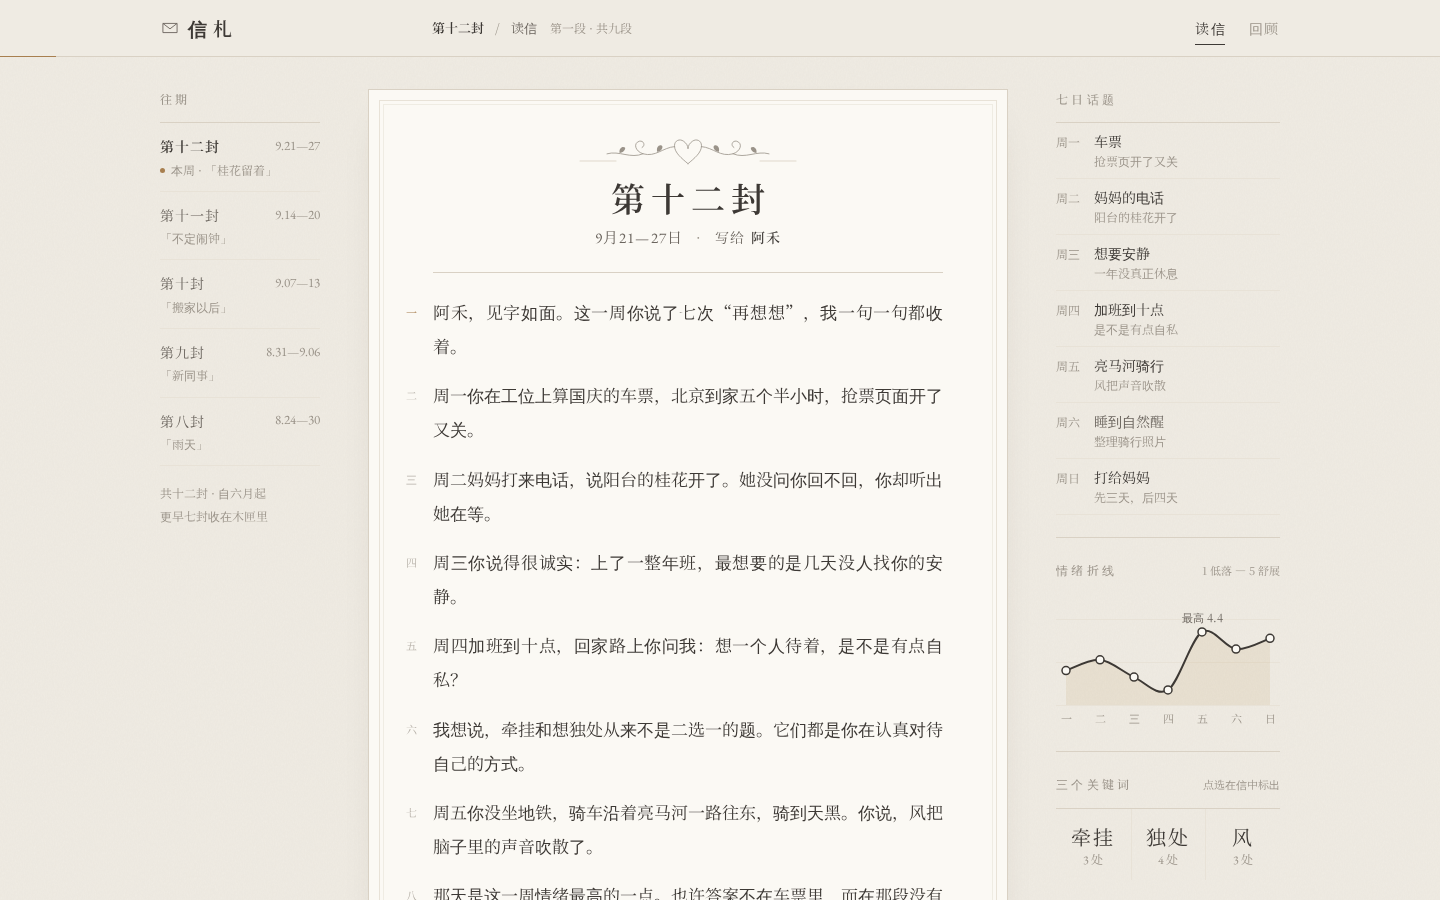
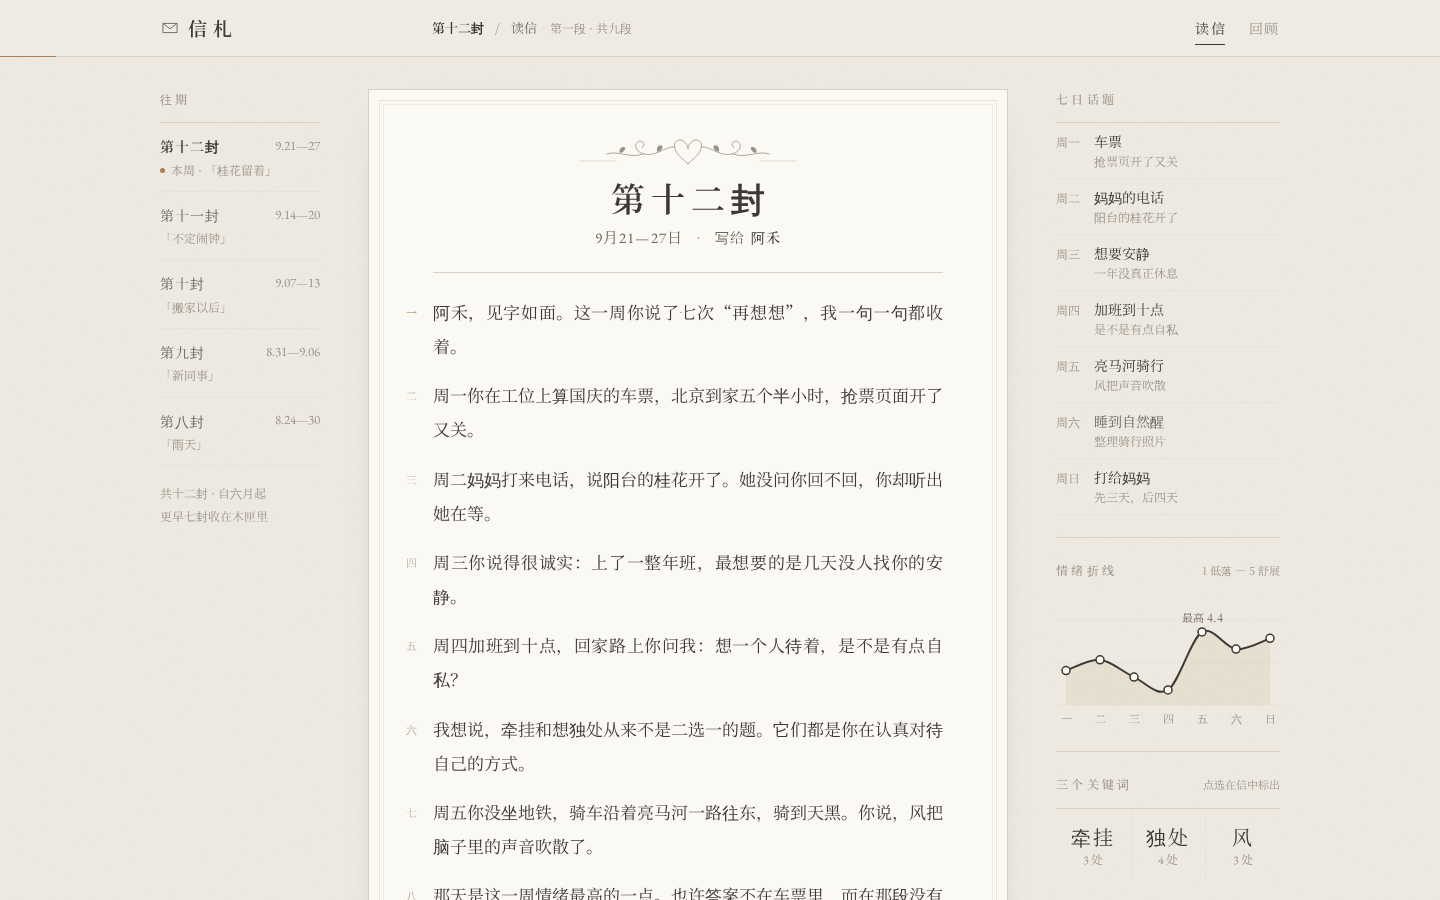
修正关键词标记：按段内原文短语标出
原先只匹配关键词本身，像「没人找你的安静」这类同义句段落虽被计入，
却没有任何标记，导致「4 处」只亮 1 处。数据改为 关键词 → 短语，
跨行标记用 box-decoration-break 衔接；未选纸色时跟随系统深浅色。

Claude-Session: https://claude.ai/code/session_01LUpHpqM3dmAVYrivGasYjP

diff --git a/js/data.js b/js/data.js
@@ -1,4 +1,5 @@
-// 信札 · 虚构示例数据。每封信对应一周的对话；段落可关联星期（day 0–6 = 周一—周日）与关键词。
+// 信札 · 虚构示例数据。每封信对应一周的对话；段落可关联星期（day 0–6 = 周一—周日）
+// 与关键词（kw：关键词 → 该段里用记号笔标出的原文短语）。
 window.LETTERS = [
   {
     no: 12,
@@ -10,16 +11,16 @@ window.LETTERS = [
     paragraphs: [
       { t: "阿禾，见字如面。这一周你说了七次“再想想”，我一句一句都收着。" },
       { t: "周一你在工位上算国庆的车票，北京到家五个半小时，抢票页面开了又关。", day: 0 },
-      { t: "周二妈妈打来电话，说阳台的桂花开了。她没问你回不回，你却听出她在等。", day: 1, kw: ["牵挂"] },
-      { t: "周三你说得很诚实：上了一整年班，最想要的是几天没人找你的安静。", day: 2, kw: ["独处"] },
-      { t: "周四加班到十点，回家路上你问我：想一个人待着，是不是有点自私？", day: 3, kw: ["独处"] },
-      { t: "我想说，牵挂和想独处从来不是二选一的题。它们都是你在认真对待自己的方式。", kw: ["牵挂", "独处"] },
-      { t: "周五你没坐地铁，骑车沿着亮马河一路往东，骑到天黑。你说，风把脑子里的声音吹散了。", day: 4, kw: ["风"] },
-      { t: "那天是这一周情绪最高的一点。也许答案不在车票里，而在那段没有目的地的路上。", day: 4, kw: ["风"] },
-      { t: "周日你做了决定：先陪自己三天，再回家陪妈妈四天。她在电话那头说：“那我把桂花留着。”", day: 6, kw: ["牵挂", "独处"] }
+      { t: "周二妈妈打来电话，说阳台的桂花开了。她没问你回不回，你却听出她在等。", day: 1, kw: { 牵挂: "你却听出她在等" } },
+      { t: "周三你说得很诚实：上了一整年班，最想要的是几天没人找你的安静。", day: 2, kw: { 独处: "几天没人找你的安静" } },
+      { t: "周四加班到十点，回家路上你问我：想一个人待着，是不是有点自私？", day: 3, kw: { 独处: "想一个人待着" } },
+      { t: "我想说，牵挂和想独处从来不是二选一的题。它们都是你在认真对待自己的方式。", kw: { 牵挂: "牵挂", 独处: "想独处" } },
+      { t: "周五你没坐地铁，骑车沿着亮马河一路往东，骑到天黑。你说，风把脑子里的声音吹散了。", day: 4, kw: { 风: "风把脑子里的声音吹散了" } },
+      { t: "那天是这一周情绪最高的一点。也许答案不在车票里，而在那段没有目的地的路上。", day: 4, kw: { 风: "那段没有目的地的路上" } },
+      { t: "周日你做了决定：先陪自己三天，再回家陪妈妈四天。她在电话那头说：“那我把桂花留着。”", day: 6, kw: { 独处: "先陪自己三天", 牵挂: "再回家陪妈妈四天" } }
     ],
     wish: { from: 11, text: "好好睡一个不定闹钟的觉" },
-    closing: { t: "国庆第一天，就从这个心愿开始吧——醒来的时候，先别看手机，听一听窗外的风。", kw: ["风"] },
+    closing: { t: "国庆第一天，就从这个心愿开始吧——醒来的时候，先别看手机，听一听窗外的风。", kw: { 风: "听一听窗外的风" } },
     question: "骑车那晚，被风吹散的声音里，最响的是哪一句？",
     topics: [
       ["车票", "抢票页开了又关"],
@@ -41,10 +42,10 @@ window.LETTERS = [
     to: "阿禾",
     sent: "九月二十一日",
     paragraphs: [
-      { t: "阿禾，见字如面。这周你说得最多的两个字是“好累”。", kw: ["疲惫"] },
-      { t: "周二凌晨两点你还醒着，刷完了一整季没在看的剧。", day: 1, kw: ["失眠"] },
-      { t: "周四你说，想要的不多，只想好好睡一个不定闹钟的觉。", day: 3, kw: ["心愿"] },
-      { t: "我把这个心愿记下了。下一封信，我们一起看看它有没有实现。", kw: ["心愿"] }
+      { t: "阿禾，见字如面。这周你说得最多的两个字是“好累”。", kw: { 疲惫: "好累" } },
+      { t: "周二凌晨两点你还醒着，刷完了一整季没在看的剧。", day: 1, kw: { 失眠: "凌晨两点你还醒着" } },
+      { t: "周四你说，想要的不多，只想好好睡一个不定闹钟的觉。", day: 3, kw: { 心愿: "好好睡一个不定闹钟的觉" } },
+      { t: "我把这个心愿记下了。下一封信，我们一起看看它有没有实现。", kw: { 心愿: "这个心愿" } }
     ],
     wish: { from: 10, text: "给新家的绿萝换一个大一点的盆" },
     closing: { t: "你周六真的去了花市，绿萝现在住进了白色的陶盆里。" },
@@ -69,9 +70,9 @@ window.LETTERS = [
     to: "阿禾",
     sent: "九月十四日",
     paragraphs: [
-      { t: "阿禾，见字如面。新家的第一周，你说房间大了，声音却变少了。", kw: ["新家"] },
-      { t: "周三你在门口捡到邻居掉落的快递，送过去时，对方回了你一碟月饼。", day: 2, kw: ["邻居"] },
-      { t: "周六你把绿萝放在窗台上，说它是这个家里第一个会长大的东西。", day: 5, kw: ["绿萝"] }
+      { t: "阿禾，见字如面。新家的第一周，你说房间大了，声音却变少了。", kw: { 新家: "新家" } },
+      { t: "周三你在门口捡到邻居掉落的快递，送过去时，对方回了你一碟月饼。", day: 2, kw: { 邻居: "邻居" } },
+      { t: "周六你把绿萝放在窗台上，说它是这个家里第一个会长大的东西。", day: 5, kw: { 绿萝: "绿萝" } }
     ],
     wish: { from: 9, text: "找到一家能一个人安心吃午饭的店" },
     closing: { t: "公司后街那家面馆，你已经去了三次，老板记住了你不要香菜。" },
@@ -96,9 +97,9 @@ window.LETTERS = [
     to: "阿禾",
     sent: "九月七日",
     paragraphs: [
-      { t: "阿禾，见字如面。组里来了新同事，你说自己像在重新学说话。", kw: ["试探"] },
-      { t: "周二她约你吃午饭，你犹豫了很久，最后说了“下次吧”。", day: 1, kw: ["午饭", "边界"] },
-      { t: "周五你主动约了她。你说，拒绝和靠近，原来都可以是自己选的。", day: 4, kw: ["午饭", "边界"] }
+      { t: "阿禾，见字如面。组里来了新同事，你说自己像在重新学说话。", kw: { 试探: "像在重新学说话" } },
+      { t: "周二她约你吃午饭，你犹豫了很久，最后说了“下次吧”。", day: 1, kw: { 午饭: "约你吃午饭", 边界: "下次吧" } },
+      { t: "周五你主动约了她。你说，拒绝和靠近，原来都可以是自己选的。", day: 4, kw: { 午饭: "主动约了她", 边界: "拒绝和靠近" } }
     ],
     wish: { from: 8, text: "下雨天也能出门走一走" },
     closing: { t: "周日下了小雨，你撑伞绕着小区走了两圈，说空气是甜的。" },
@@ -123,9 +124,9 @@ window.LETTERS = [
     to: "阿禾",
     sent: "八月三十一日",
     paragraphs: [
-      { t: "阿禾，见字如面。北京这周下了五天雨，你说心情也跟着潮了。", kw: ["雨"] },
-      { t: "周四你翻到和旧友的合照，犹豫要不要发一句“最近好吗”。", day: 3, kw: ["旧友"] },
-      { t: "你最后没有发，但你说，想念本身也算一种联系。我们慢慢来。", kw: ["旧友", "慢"] }
+      { t: "阿禾，见字如面。北京这周下了五天雨，你说心情也跟着潮了。", kw: { 雨: "下了五天雨" } },
+      { t: "周四你翻到和旧友的合照，犹豫要不要发一句“最近好吗”。", day: 3, kw: { 旧友: "和旧友的合照" } },
+      { t: "你最后没有发，但你说，想念本身也算一种联系。我们慢慢来。", kw: { 旧友: "想念本身也算一种联系", 慢: "我们慢慢来" } }
     ],
     wish: { from: 7, text: "每天给自己留十分钟发呆" },
     closing: { t: "这周你有四天做到了，其中一次是在雨声里。" },

diff --git a/js/app.js b/js/app.js
@@ -25,7 +25,9 @@
   var state = { letter: null, keyword: null, day: null, section: "letter" };
 
   /* ———————————— 设置（页脚） ———————————— */
-  var settings = Object.assign({ size: "m", paper: "cream", leading: "loose" }, store.get("settings", {}));
+  // 没选过纸色时跟随系统深浅色
+  var prefersDark = window.matchMedia && window.matchMedia("(prefers-color-scheme: dark)").matches;
+  var settings = Object.assign({ size: "m", paper: prefersDark ? "night" : "cream", leading: "loose" }, store.get("settings", {}));
   function applySettings() {
     root.dataset.size = settings.size;
     root.dataset.paper = settings.paper;
@@ -69,14 +71,17 @@
   }
 
   /* ———————————— 信件 ———————————— */
-  // 关键词在句中用记号笔标出；没有关键词的“日段”整句标出。
-  function markText(text, words) {
+  // kw 把关键词映射到段内原文短语，短语用记号笔标出，记号带上所属关键词。
+  function markText(text, kw) {
     var frag = document.createDocumentFragment();
-    if (!words || !words.length) { frag.append(text); return frag; }
-    var re = new RegExp("(" + words.map(function (w) { return w.replace(/[.*+?^${}()|[\]\\]/g, "\\$&"); }).join("|") + ")", "g");
+    var byPhrase = {};
+    Object.keys(kw || {}).forEach(function (w) { byPhrase[kw[w]] = w; });
+    var phrases = Object.keys(byPhrase);
+    if (!phrases.length) { frag.append(text); return frag; }
+    var re = new RegExp("(" + phrases.map(function (w) { return w.replace(/[.*+?^${}()|[\]\\]/g, "\\$&"); }).join("|") + ")", "g");
     text.split(re).forEach(function (part, i) {
       if (!part) return;
-      if (i % 2) { var m = el("span", "mark", part); m.dataset.kw = part; frag.append(m); }
+      if (i % 2) { var m = el("span", "mark", part); m.dataset.kw = byPhrase[part]; frag.append(m); }
       else frag.append(part);
     });
     return frag;
@@ -98,7 +103,7 @@
       var para = el("p", "para");
       para.dataset.index = i;
       if (p.day != null) para.dataset.day = p.day;
-      para.dataset.kw = (p.kw || []).join(" ");
+      para.dataset.kw = Object.keys(p.kw || {}).join(" ");
       var no = el("span", "para__no", cn(i + 1));
       no.setAttribute("aria-hidden", "true");
       para.append(no, markText(p.t, p.kw));
@@ -107,7 +112,7 @@
 
     var closing = $("closing");
     closing.textContent = "";
-    closing.dataset.kw = (l.closing.kw || []).join(" ");
+    closing.dataset.kw = Object.keys(l.closing.kw || {}).join(" ");
     closing.append(markText(l.closing.t, l.closing.kw));
 
     document.title = "第" + cn(l.no) + "封 · " + l.range + " — 信札";
@@ -253,7 +258,7 @@
     var list = $("keywords");
     list.textContent = "";
     l.keywords.forEach(function (w) {
-      var count = l.paragraphs.concat([l.closing]).filter(function (p) { return (p.kw || []).indexOf(w) > -1; }).length;
+      var count = l.paragraphs.concat([l.closing]).filter(function (p) { return !!p.kw && w in p.kw; }).length;
       var li = el("li");
       var b = el("button");
       b.type = "button";

diff --git a/css/style.css b/css/style.css
@@ -306,6 +306,8 @@ button { font: inherit; color: inherit; }
   transition: background-size .35s ease;
   background-repeat: no-repeat;
   background-size: 0 100%;
+  -webkit-box-decoration-break: clone;
+  box-decoration-break: clone;
 }
 .mark.is-on { background-size: 100% 100%; }
 .para::before {
